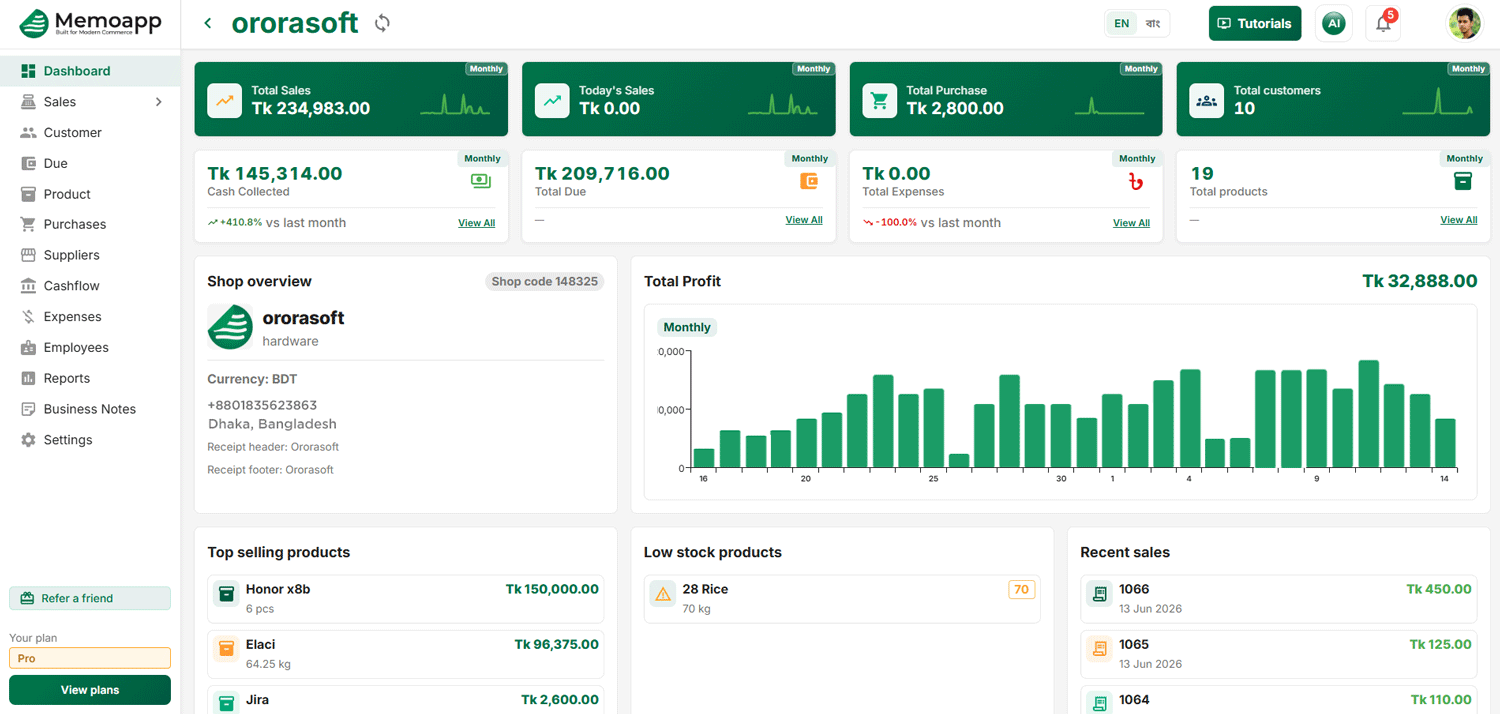
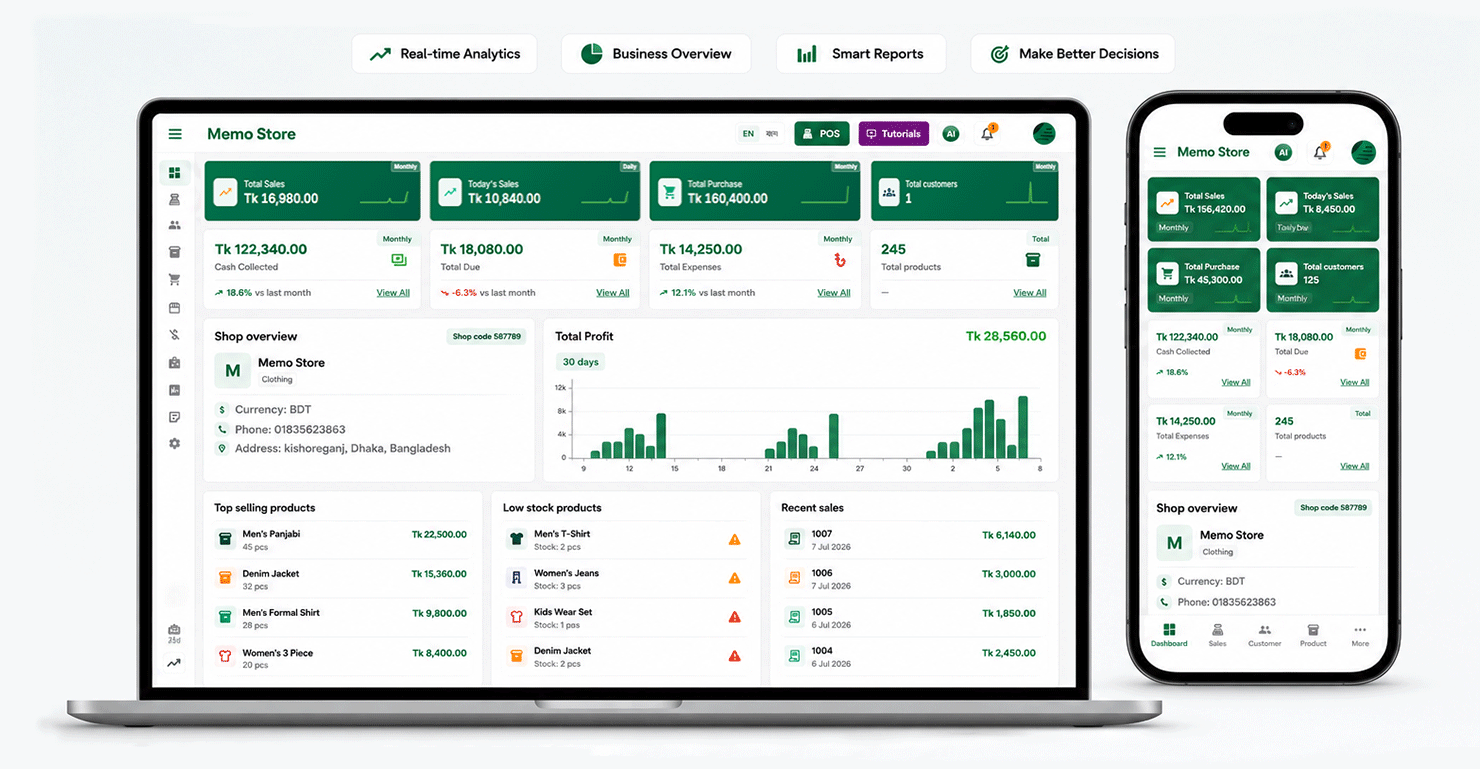
adjust landing page

diff --git a/components/landing/landing-page.tsx b/components/landing/landing-page.tsx
@@ -487,15 +487,14 @@ function ProductDashboardCard({ label }: { label: string }) {
             {label}
           </p>
         </div>
-        <div className="relative aspect-979/465">
-          <Image
-            alt="MemoApp dashboard showing sales, purchases, customers, products, profit chart, low-stock products, and recent sales."
-            className="object-cover object-top-left"
-            fill
-            sizes="(min-width: 1024px) 58vw, 100vw"
-            src="/product-dashboard.png"
-          />
-        </div>
+        <Image
+          alt="MemoApp dashboard showing sales, purchases, customers, products, profit chart, low-stock products, and recent sales."
+          className="h-auto w-full"
+          height={769}
+          sizes="(min-width: 1024px) 58vw, 100vw"
+          src="/product-dashboard.png"
+          width={1480}
+        />
       </div>
     </div>
   );
@@ -514,7 +513,7 @@ function PosShowcaseSection() {
           description={pos.description}
         />
         <div className="mt-14 grid gap-10 lg:grid-cols-[1.15fr_0.85fr] lg:items-start">
-          <PosPreviewCard label={pos.previewLabel} alt={pos.previewAlt} />
+          <PosPreviewGrid previews={pos.previews} />
           <div className="grid gap-3 sm:grid-cols-2 sm:grid-rows-2 lg:h-full">
             {pos.cards.map((card) => (
               <article
@@ -539,30 +538,38 @@ function PosShowcaseSection() {
   );
 }
 
-function PosPreviewCard({ label, alt }: { label: string; alt: string }) {
+function PosPreviewGrid({
+  previews,
+}: {
+  previews: ReadonlyArray<{ src: string; label: string; alt: string }>;
+}) {
   return (
-    <div className="rounded-2xl border border-(--color-border) bg-white p-3 shadow-2xl shadow-[rgba(1,64,52,0.1)]">
-      <div className="overflow-hidden rounded-2xl bg-white shadow-xl shadow-black/10">
-        <div className="flex items-center justify-between border-b border-(--color-border) bg-(--color-background) px-4 py-3">
-          <div className="flex items-center gap-1.5" aria-hidden="true">
-            <span className="size-2.5 rounded-full bg-[#ff5f57]" />
-            <span className="size-2.5 rounded-full bg-[#ffbd2e]" />
-            <span className="size-2.5 rounded-full bg-[#28c840]" />
+    <div className="grid grid-cols-1 gap-3 sm:grid-cols-2 sm:gap-4">
+      {previews.map((preview) => (
+        <article
+          className="overflow-hidden rounded-2xl border border-(--color-border) bg-white shadow-sm"
+          key={preview.src}
+        >
+          <div className="flex items-center justify-between border-b border-(--color-border) bg-(--color-background) px-3 py-2">
+            <div className="flex items-center gap-1" aria-hidden="true">
+              <span className="size-2 rounded-full bg-[#ff5f57]" />
+              <span className="size-2 rounded-full bg-[#ffbd2e]" />
+              <span className="size-2 rounded-full bg-[#28c840]" />
+            </div>
+            <p className="text-[0.65rem] font-bold uppercase tracking-[0.16em] text-(--color-primary)">
+              {preview.label}
+            </p>
           </div>
-          <p className="text-xs font-bold uppercase tracking-[0.18em] text-(--color-primary)">
-            {label}
-          </p>
-        </div>
-        <div className="relative aspect-1200/568 w-full">
           <Image
-            alt={alt}
-            className="object-contain object-top"
-            fill
-            sizes="(min-width: 1024px) 62vw, 100vw"
-            src="/pos.png"
+            alt={preview.alt}
+            className="h-auto w-full"
+            height={911}
+            sizes="(min-width: 1024px) 28vw, (min-width: 640px) 45vw, 100vw"
+            src={preview.src}
+            width={1900}
           />
-        </div>
-      </div>
+        </article>
+      ))}
     </div>
   );
 }

diff --git a/lib/landing-content/bn.ts b/lib/landing-content/bn.ts
@@ -236,9 +236,28 @@ export const bnLandingContent = {
     title: "ব্যস্ততম দিনেও দ্রুত কাজের জন্য তৈরি কাউন্টার।",
     description:
       "MemoApp-এর POS প্রতিটি বিক্রি দ্রুত ও নির্ভুল রাখে — প্রোডাক্ট স্ক্যান করুন, একসাথে একাধিক বিল সামলান, যেকোনো পেমেন্ট নিন আর সেকেন্ডেই মেমো প্রিন্ট করুন।",
-    previewLabel: "লাইভ POS প্রিভিউ",
-    previewAlt:
-      "MemoApp POS স্ক্রিন — প্রোডাক্ট গ্রিড, কারেন্ট বিল, পেমেন্ট অপশন ও টোটাল দেখাচ্ছে।",
+    previews: [
+      {
+        src: "/FashionPOS.png",
+        label: "ফ্যাশন",
+        alt: "MemoApp ফ্যাশন স্টোর POS — পোশাক প্রোডাক্ট, বিল ট্যাব ও চেকআউট।",
+      },
+      {
+        src: "/GrosaryPOS.png",
+        label: "গ্রোসারি",
+        alt: "MemoApp গ্রোসারি POS — প্রোডাক্ট গ্রিড, ক্যাটাগরি, স্টক ও কারেন্ট বিল।",
+      },
+      {
+        src: "/medicinePOS.png",
+        label: "ফার্মেসি",
+        alt: "MemoApp ফার্মেসি POS — ওষুধ কার্ড, MRP, স্টক ও পেমেন্ট অপশন।",
+      },
+      {
+        src: "/ResturentPOS.png",
+        label: "রেস্তোরাঁ",
+        alt: "MemoApp রেস্তোরাঁ POS — মেনু আইটেম, মাল্টি-বিল ট্যাব ও টেবিল চেকআউট।",
+      },
+    ],
     cards: [
       {
         tag: "দ্রুত খুঁজুন",

diff --git a/lib/landing-content/en.ts b/lib/landing-content/en.ts
@@ -235,9 +235,28 @@ export const enLandingContent = {
     title: "A counter built for speed, even on the busiest day.",
     description:
       "MemoApp's POS keeps every sale fast and accurate — scan products, juggle multiple bills, take any payment type, and print a memo in seconds.",
-    previewLabel: "Live POS preview",
-    previewAlt:
-      "MemoApp POS screen showing the product grid, current bill, payment options, and totals.",
+    previews: [
+      {
+        src: "/FashionPOS.png",
+        label: "Fashion",
+        alt: "MemoApp fashion store POS with clothing products, bill tabs, and checkout.",
+      },
+      {
+        src: "/GrosaryPOS.png",
+        label: "Grocery",
+        alt: "MemoApp grocery POS with product grid, categories, stock counts, and current bill.",
+      },
+      {
+        src: "/medicinePOS.png",
+        label: "Pharmacy",
+        alt: "MemoApp pharmacy POS showing medicine cards, MRP, stock, and payment options.",
+      },
+      {
+        src: "/ResturentPOS.png",
+        label: "Restaurant",
+        alt: "MemoApp restaurant POS with menu items, multi-bill tabs, and table checkout.",
+      },
+    ],
     cards: [
       {
         tag: "Find fast",

diff --git a/lib/schema.ts b/lib/schema.ts
@@ -2,10 +2,10 @@ import { landingContent } from "@/lib/landing-content";
 import { siteConfig } from "@/lib/site";
 
 export const openGraphImage = {
-  url: "/og.png",
+  url: "/memoapp.png",
   width: 1200,
   height: 630,
-  alt: "MemoApp business management dashboard — billing, stock, dues, and AI preview",
+  alt: "MemoApp — business assistant, inventory manager, and POS all in one",
 } as const;
 
 export const pageSeo = {
